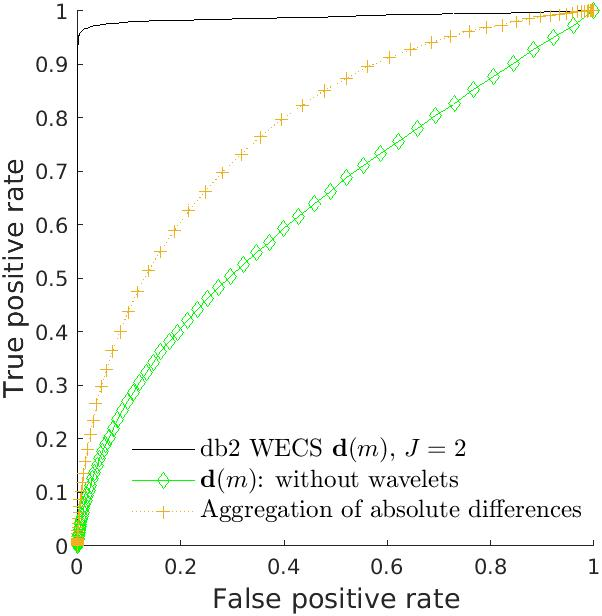
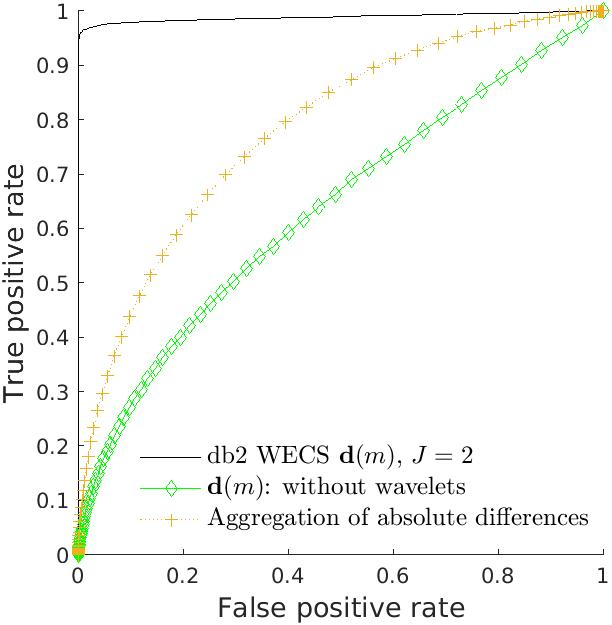
updates on small changes analysis

diff --git a/codes/Small_ChangeAnalysis_methods.m b/codes/Small_ChangeAnalysis_methods.m
@@ -190,38 +190,13 @@ hold off
 % saveas(mImage,sprintf('../figs/small_changes_methods_comparison.jpg'))
 exportgraphics(mImage,sprintf('../figs/small_changes_methods_comparison.jpg'),'BackgroundColor','none')
 
-%
-
-[vp_wecs,FP_wecs,~,~] = F1Scorecurve(R_wecs,255*im1); close
-[vp_nowecs,FP_nowecs,~,~] = F1Scorecurve(R_nowecs,255*im1); close
-[vp_agg,FP_agg,~,~] = F1Scorecurve(S,255*im1); close
-
-%mResults = array2table([vp_wecs; FP_wecs; vp_nowecs; FP_nowecs; vp_agg; FP_agg]');
-%mResults.Properties.VariableNames = {'vp_wecs' 'FP_wecs' 'vp_nowecs' 'FP_nowecs' 'vp_agg' 'FP_agg'};
-%writetable(mResults,'SeqEllipse_methods_F1score.csv')
 
 % saving CSV for ROC curves of WECS, TAAD and ECS
 mResults = array2table([TP_wecs; FP_wecs; TP_nowecs; FP_nowecs; TP_agg; FP_agg]');
 mResults.Properties.VariableNames = {'TP_wecs' 'FP_wecs' 'TP_nowecs' 'FP_nowecs' 'TP_agg' 'FP_agg'};
-writetable(mResults,'small_changes_ROC_curves_forest.csv')
+writetable(mResults,'small_changes_ROC_curves.csv')
 
-
-mImage = figure;
-hold on
-%title('F1-score', 'FontSize', 17)
-xlabel('$p$','interpreter','latex', 'FontSize', 13)
-ylabel('$F_1$-score','interpreter','latex', 'FontSize', 13)
-axis([0 1 0 0.99]);
-axis square
-plot(vp_wecs,FP_wecs,'k')
-plot(vp_nowecs,FP_nowecs,'g-d')
-plot(vp_agg,FP_agg,':+')
-legend('db2 WECS $\textbf{d}(m)$, $J=2$', '$\textbf{d}(m)$: without wavelets', ...
-    'Aggregation of absolute differences','interpreter','latex', 'Location','southeast', 'FontSize', 12)
-legend('boxoff')
-hold off
-%saveas(mImage,sprintf('../figs/small_changes_methods_comparison_F1score.jpg'))
-
+%
 
 
 
